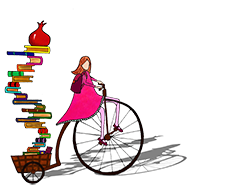
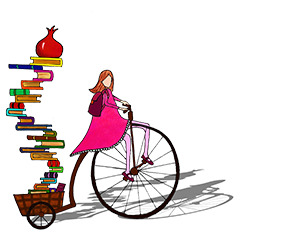
add

diff --git a/html/base.html b/html/base.html
@@ -36,6 +36,7 @@
 <style>
 body {
     background-color: 	#1ac0d9;
+	
 }
 </style>
 <div class="container">
@@ -47,7 +48,7 @@ body {
 
                     <img src="img/Toranj.png" border="0" alt="logo"  style=" position: relative;left :-325px;top: -10px; ">
        				<img src="img/Banafsh.png" border="0" alt="logo" style=" position: relative; right :100px; top:-25px ">
-					 <img src="img/ToranjRast.png" border="0" alt="logo"  style=" position: relative;right :0px;top: -10px; ">
+					 
 
 				</div>
 			</div>
@@ -162,6 +163,13 @@ body {
    
 
 	<script src="js/kerase.js"></script>
+	
+	
+				</div>
+			</div>
+	<div class="row clearfix">
+		<div class="col-md-12 column" style="background-image:url(img/fil.png);background-size: 1320px; " >
+
 
   </body>
 
